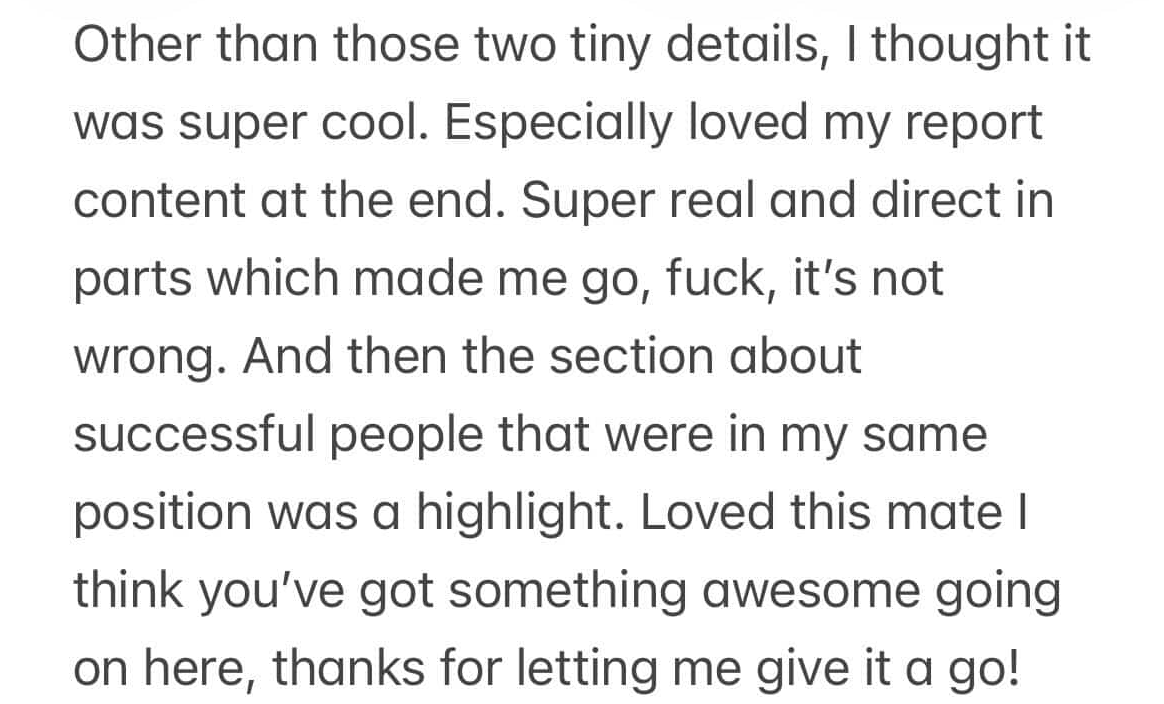
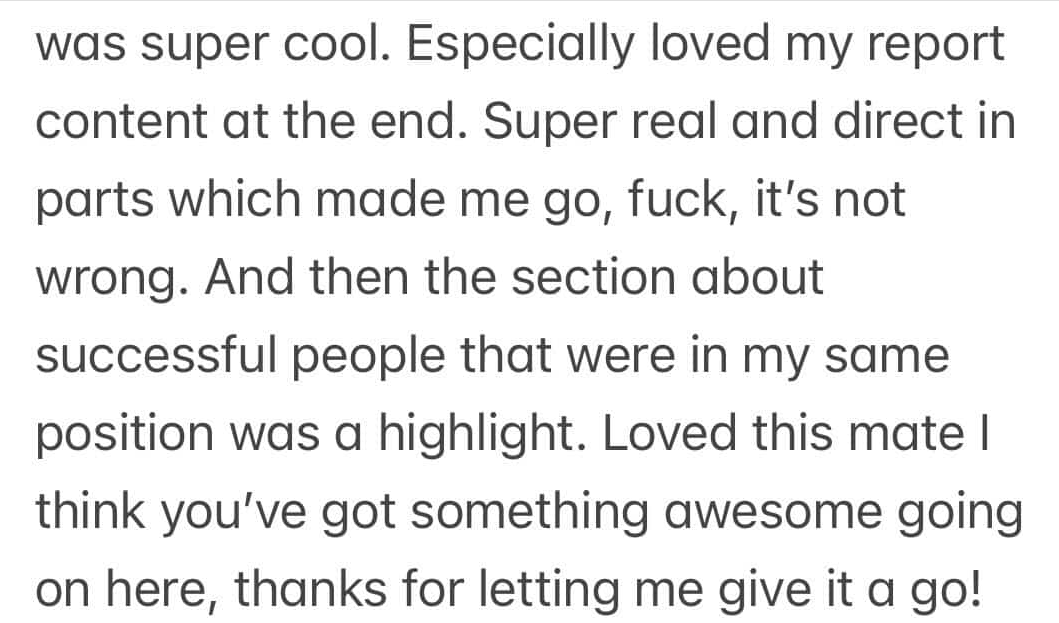
Testimonials: uniform 200px height with object-fit:cover, pick up updated dm2
- All desktop cards fixed at 200px height (dm5's natural rendered height)
- object-fit:cover + object-position:center top fills every card — wide cards (dm1, dm4) gain visual weight instead of appearing tiny
- Picks up updated dm2.png re-crop

diff --git a/app/page.tsx b/app/page.tsx
@@ -714,9 +714,9 @@ export default function LandingPage() {
               '/testimonials/dm4.png',
               '/testimonials/dm2.png',
             ].map((src, i) => (
-              <div key={i} style={{ width: 'calc((100% - 2 * 1.25rem) / 3)', borderRadius: '20px', overflow: 'hidden', boxShadow: '0 8px 32px rgba(0,0,0,0.12)', border: '1px solid var(--brand-border)' }}>
+              <div key={i} style={{ width: 'calc((100% - 2 * 1.25rem) / 3)', height: '200px', borderRadius: '20px', overflow: 'hidden', boxShadow: '0 8px 32px rgba(0,0,0,0.12)', border: '1px solid var(--brand-border)' }}>
                 {/* eslint-disable-next-line @next/next/no-img-element */}
-                <img src={src} alt={`Testimonial ${i + 1}`} style={{ display: 'block', width: '100%', height: 'auto' }} />
+                <img src={src} alt={`Testimonial ${i + 1}`} style={{ display: 'block', width: '100%', height: '100%', objectFit: 'cover', objectPosition: 'center top' }} />
               </div>
             ))}
           </div>
